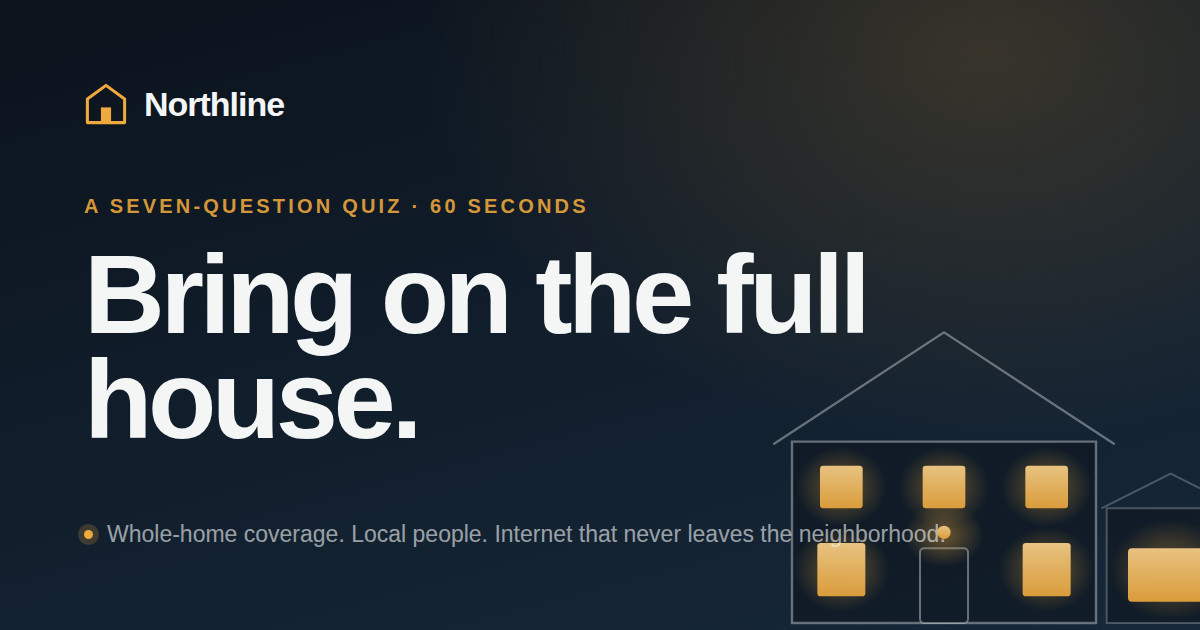
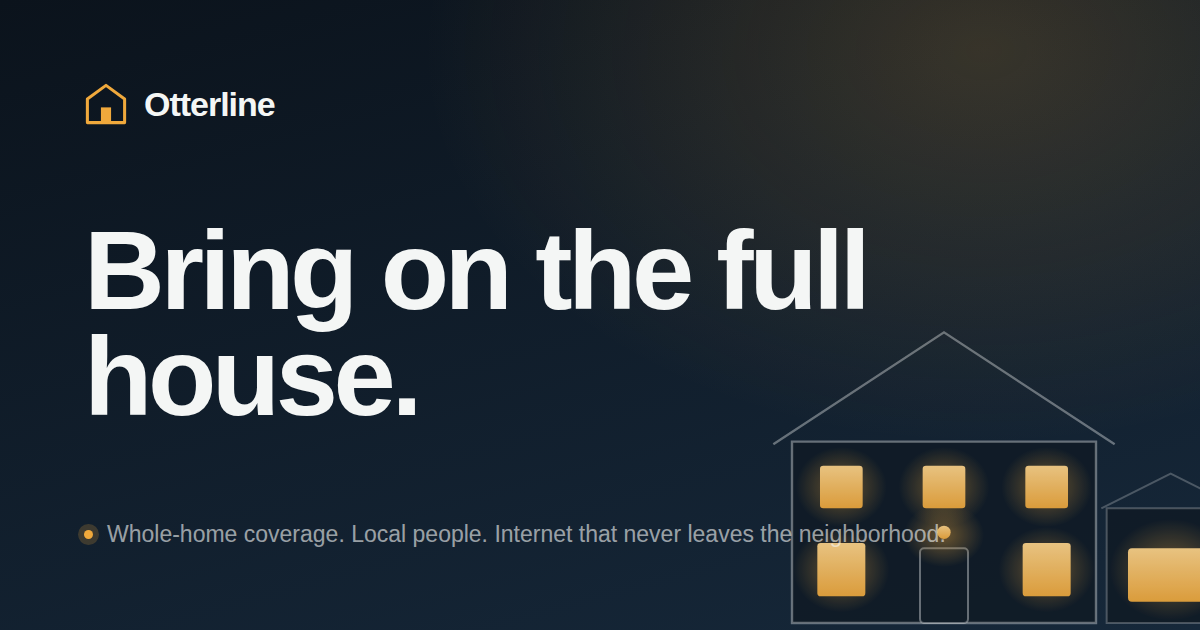
Rebrand to Otterline, outcome-led plan CTAs, trim hero and footer
- Rename the brand from Northline to Otterline across the page copy, title,
  meta, structured data, manifest, 404 page, README, and share image
- Rewrite the three plan CTAs as outcomes: "Make my evenings easy",
  "Keep everyone happy", "Take it off my plate"
- Remove the hero quiz-length eyebrow, on the page and in the share image
- Remove the footer fine print

Changed region(s): [[0.0617, 0.3016, 0.74, 0.6937], [0.1233, 0.1508, 0.2467, 0.181]]

diff --git a/index.html b/index.html
@@ -6,34 +6,34 @@
 
 <!-- ============================================================
      PRIMARY META
-     Replace the domain (https://northline.vercel.app) throughout
+     Replace the domain (https://otterline.vercel.app) throughout
      this file, sitemap.xml and robots.txt with your real domain.
      ============================================================ -->
-<title>Northline Internet — Bring on the full house</title>
-<meta name="description" content="Answer seven questions about a normal weeknight and Northline tells you which internet plan actually fits your house. Whole-home coverage, local support, and a truck that shows up — not a dish that leaves the planet.">
-<meta name="author" content="Northline Communications">
+<title>Otterline Internet — Bring on the full house</title>
+<meta name="description" content="Answer seven questions about a normal weeknight and Otterline tells you which internet plan actually fits your house. Whole-home coverage, local support, and a truck that shows up — not a dish that leaves the planet.">
+<meta name="author" content="Otterline Communications">
 <meta name="theme-color" content="#0B131C">
 <meta name="color-scheme" content="dark light">
-<link rel="canonical" href="https://northline.vercel.app/">
+<link rel="canonical" href="https://otterline.vercel.app/">
 
 <!-- ============================================================
      OPEN GRAPH / TWITTER
      ============================================================ -->
 <meta property="og:type" content="website">
-<meta property="og:site_name" content="Northline Communications">
+<meta property="og:site_name" content="Otterline Communications">
 <meta property="og:title" content="Bring on the full house">
 <meta property="og:description" content="Seven questions about a normal weeknight, and we'll tell you which plan fits. Whole-home coverage, local people, and internet that never leaves the neighborhood.">
-<meta property="og:url" content="https://northline.vercel.app/">
-<meta property="og:image" content="https://northline.vercel.app/assets/og-image.png">
+<meta property="og:url" content="https://otterline.vercel.app/">
+<meta property="og:image" content="https://otterline.vercel.app/assets/og-image.png">
 <meta property="og:image:width" content="1200">
 <meta property="og:image:height" content="630">
-<meta property="og:image:alt" content="Northline — a house at dusk with its windows lit.">
+<meta property="og:image:alt" content="Otterline — a house at dusk with its windows lit.">
 <meta property="og:locale" content="en_US">
 <meta name="twitter:card" content="summary_large_image">
 <meta name="twitter:title" content="Bring on the full house">
 <meta name="twitter:description" content="Seven questions about a normal weeknight, and we'll tell you which plan fits.">
-<meta name="twitter:image" content="https://northline.vercel.app/assets/og-image.png">
-<meta name="twitter:image:alt" content="Northline — a house at dusk with its windows lit.">
+<meta name="twitter:image" content="https://otterline.vercel.app/assets/og-image.png">
+<meta name="twitter:image:alt" content="Otterline — a house at dusk with its windows lit.">
 
 <!-- ============================================================
      ICONS / MANIFEST
@@ -60,30 +60,30 @@
   "@graph": [
     {
       "@type": "Organization",
-      "@id": "https://northline.vercel.app/#org",
-      "name": "Northline Communications",
-      "url": "https://northline.vercel.app/",
-      "logo": "https://northline.vercel.app/favicon.svg",
+      "@id": "https://otterline.vercel.app/#org",
+      "name": "Otterline Communications",
+      "url": "https://otterline.vercel.app/",
+      "logo": "https://otterline.vercel.app/favicon.svg",
       "foundingDate": "1954",
       "slogan": "Bring on the full house.",
       "description": "A local internet provider offering managed whole-home coverage and same-day local support."
     },
     {
       "@type": "WebSite",
-      "@id": "https://northline.vercel.app/#website",
-      "url": "https://northline.vercel.app/",
-      "name": "Northline Communications",
-      "publisher": { "@id": "https://northline.vercel.app/#org" },
+      "@id": "https://otterline.vercel.app/#website",
+      "url": "https://otterline.vercel.app/",
+      "name": "Otterline Communications",
+      "publisher": { "@id": "https://otterline.vercel.app/#org" },
       "inLanguage": "en-US"
     },
     {
       "@type": "Service",
       "serviceType": "Residential internet service",
-      "provider": { "@id": "https://northline.vercel.app/#org" },
+      "provider": { "@id": "https://otterline.vercel.app/#org" },
       "areaServed": "Local service area",
       "hasOfferCatalog": {
         "@type": "OfferCatalog",
-        "name": "Northline internet plans",
+        "name": "Otterline internet plans",
         "itemListElement": [
           {
             "@type": "Offer",
@@ -138,12 +138,12 @@
 <!-- ══════════════ NAV ══════════════ -->
 <header class="nav">
   <div class="shell nav-in">
-    <a href="#top" class="logo" aria-label="Northline — home">
+    <a href="#top" class="logo" aria-label="Otterline — home">
       <svg class="logo-mark" viewBox="0 0 26 26" fill="none" aria-hidden="true">
         <path d="M13 2 24 10v14H2V10L13 2Z" stroke="#F0A93C" stroke-width="1.8" stroke-linejoin="round"/>
         <rect x="10" y="15" width="6" height="9" fill="#F0A93C"/>
       </svg>
-      <span class="logo-txt">Northline</span>
+      <span class="logo-txt">Otterline</span>
     </a>
     <nav class="nav-links" aria-label="Primary">
       <a href="#quiz">Find your plan</a>
@@ -160,7 +160,6 @@
 <section class="hero" id="top">
   <div class="shell hero-grid">
     <div>
-      <p class="eyebrow on-dark">A seven-question quiz · about 60 seconds</p>
       <h1 class="d1">Bring on the full house.</h1>
       <p class="lede">Nobody sits down at 7pm hoping for a good number. They want the call to hold, the game to keep up, and the movie to just start. Answer seven questions about a normal weeknight at your place, and we'll tell you which plan fits.</p>
       <div class="hero-cta">
@@ -411,7 +410,7 @@
           <li><span class="tick"><svg viewBox="0 0 12 12" fill="none"><path d="M2 6.3 4.6 9 10 3.4" stroke="#16283A" stroke-width="2" stroke-linecap="round" stroke-linejoin="round"/></svg></span>Sketchy sites and bad downloads stopped before they reach anybody</li>
           <li><span class="tick"><svg viewBox="0 0 12 12" fill="none"><path d="M2 6.3 4.6 9 10 3.4" stroke="#16283A" stroke-width="2" stroke-linecap="round" stroke-linejoin="round"/></svg></span>A local number, answered by somebody who knows your street</li>
         </ul>
-        <a href="#signup" class="btn-line">Choose Settle In</a>
+        <a href="#signup" class="btn-line">Make my evenings easy</a>
       </article>
 
       <article class="plan" data-plan="fullhouse">
@@ -428,7 +427,7 @@
           <li><span class="tick"><svg viewBox="0 0 12 12" fill="none"><path d="M2 6.3 4.6 9 10 3.4" stroke="#16283A" stroke-width="2" stroke-linecap="round" stroke-linejoin="round"/></svg></span>We spot trouble and fix it, usually before anybody mentions it</li>
           <li><span class="tick"><svg viewBox="0 0 12 12" fill="none"><path d="M2 6.3 4.6 9 10 3.4" stroke="#16283A" stroke-width="2" stroke-linecap="round" stroke-linejoin="round"/></svg></span>A nudge the moment something new joins the network</li>
         </ul>
-        <a href="#signup" class="btn">Choose Full House</a>
+        <a href="#signup" class="btn">Keep everyone happy</a>
       </article>
 
       <article class="plan" data-plan="never">
@@ -445,7 +444,7 @@
           <li><span class="tick"><svg viewBox="0 0 12 12" fill="none"><path d="M2 6.3 4.6 9 10 3.4" stroke="#16283A" stroke-width="2" stroke-linecap="round" stroke-linejoin="round"/></svg></span>An early heads-up if something worrying turns up in what the kids are doing online</li>
           <li><span class="tick"><svg viewBox="0 0 12 12" fill="none"><path d="M2 6.3 4.6 9 10 3.4" stroke="#16283A" stroke-width="2" stroke-linecap="round" stroke-linejoin="round"/></svg></span>A yearly once-over, whether or not anything's wrong</li>
         </ul>
-        <a href="#signup" class="btn-line">Choose Never Think About It</a>
+        <a href="#signup" class="btn-line">Take it off my plate</a>
       </article>
     </div>
   </div>
@@ -496,7 +495,7 @@
     </div>
 
     <div class="foot-bar">
-      <span>© 2026 Northline Communications</span>
+      <span>© 2026 Otterline Communications</span>
       <nav aria-label="Footer">
         <a href="#quiz">Find your plan</a>
         <a href="#plans">Plans</a>
@@ -504,7 +503,6 @@
         <a href="#signup">Support</a>
       </nav>
     </div>
-    <p class="fineprint">Pricing shown is for a standard residential installation and does not include taxes or fees. Coverage promise applies to the primary living area of the home. Comparisons describe general characteristics of satellite-delivered residential internet service and individual experience will vary by provider, location, and conditions.</p>
   </div>
 </footer>
 

diff --git a/404.html b/404.html
@@ -3,7 +3,7 @@
 <head>
 <meta charset="UTF-8">
 <meta name="viewport" content="width=device-width, initial-scale=1.0">
-<title>Lights are off in this room — Northline</title>
+<title>Lights are off in this room — Otterline</title>
 <meta name="robots" content="noindex">
 <meta name="theme-color" content="#0B131C">
 <link rel="icon" href="/favicon.svg" type="image/svg+xml">

diff --git a/README.md b/README.md
@@ -1,6 +1,6 @@
-# Northline — landing site
+# Otterline — landing site
 
-A fast, static, dependency-free marketing site for **Northline Communications**.
+A fast, static, dependency-free marketing site for **Otterline Communications**.
 Built around an interactive "evening quiz" that recommends a plan and a live
 satellite-vs-local simulator. No framework, no build step — just HTML, CSS, and
 vanilla JS, ready to deploy on Vercel.
@@ -46,7 +46,7 @@ vercel --prod   # production
 
 The absolute URLs used for canonical links, Open Graph, the sitemap, and
 structured data currently point at the placeholder
-`https://northline.vercel.app`. Replace that with your real domain in:
+`https://otterline.vercel.app`. Replace that with your real domain in:
 
 - `index.html`  (canonical, `og:*`, `twitter:*`, and the JSON-LD block)
 - `sitemap.xml`
